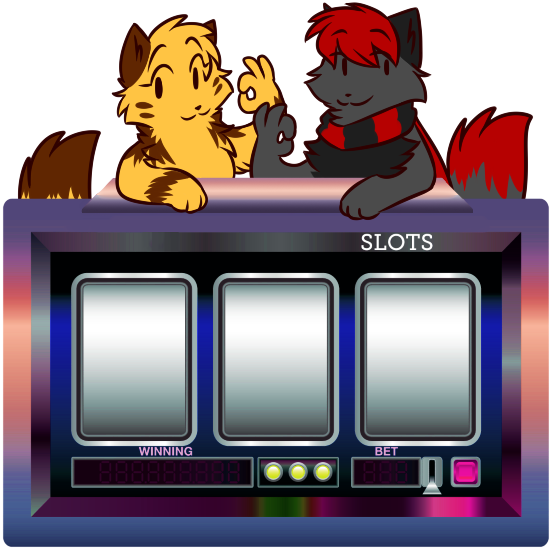
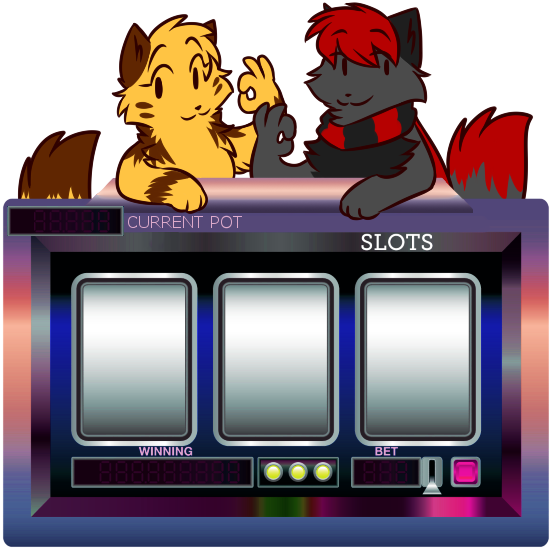
added pot to $slot machine

Changed region(s): [[0.0, 0.3696, 0.3382, 0.4312], [0.3996, 0.3696, 0.4304, 0.4312]]

diff --git a/src/NadekoBot/Modules/Gambling/Commands/Slots.cs b/src/NadekoBot/Modules/Gambling/Commands/Slots.cs
@@ -23,6 +23,9 @@ namespace NadekoBot.Modules.Gambling
 
             private const string backgroundPath = "data/slots/background.png";
 
+            public static string potFile = "data/SlotsCurrentPot.txt";
+            public static int currentPot = 0;
+
             private static readonly byte[] backgroundBuffer;
             private static readonly byte[][] numbersBuffer = new byte[10][];
             private static readonly byte[][] emojiBuffer;
@@ -47,6 +50,14 @@ namespace NadekoBot.Modules.Gambling
                 for (int i = 0; i < emojiFiles.Length; i++)
                 {
                     emojiBuffer[i] = File.ReadAllBytes(emojiFiles[i]);
+                }
+
+                if (!System.IO.File.Exists(potFile))
+                {
+                    System.IO.File.WriteAllText(potFile, currentPot.ToString());
+                } else
+                {
+                    currentPot = Convert.ToInt32(File.ReadAllText(potFile));
                 }
             }
 
@@ -74,7 +85,7 @@ namespace NadekoBot.Modules.Gambling
                 static readonly List<Func<int[], int>> winningCombos = new List<Func<int[], int>>()
                 {
                     //three flowers
-                    (arr) => arr.All(a=>a==MaxValue) ? 30 : 0,
+                    (arr) => arr.All(a=>a==MaxValue) ? 9 : 0,
                     //three of the same
                     (arr) => !arr.Any(a => a != arr[0]) ? 10 : 0,
                     //two flowers
@@ -127,6 +138,7 @@ namespace NadekoBot.Modules.Gambling
                 var embed = new EmbedBuilder()
                     .WithOkColor()
                     .WithTitle("Slot Stats")
+                    .AddField(efb => efb.WithName("Current Pot").WithValue(currentPot.ToString()).WithIsInline(true))
                     .AddField(efb => efb.WithName("Total Bet").WithValue(bet.ToString()).WithIsInline(true))
                     .AddField(efb => efb.WithName("Paid Out").WithValue(paid.ToString()).WithIsInline(true))
                     .WithFooter(efb => efb.WithText($"Payout Rate: {paid * 1.0 / bet * 100:f4}%"));
@@ -188,6 +200,11 @@ namespace NadekoBot.Modules.Gambling
                         await Context.Channel.SendErrorAsync($"You don't have enough {NadekoBot.BotConfig.CurrencySign}.").ConfigureAwait(false);
                         return;
                     }
+                    else
+                    {
+                        currentPot += amount;
+                        File.WriteAllText(potFile, currentPot.ToString());
+                    }
                     Interlocked.Add(ref totalBet, amount);
                     using (var bgFileStream = new MemoryStream(backgroundBuffer))
                     {
@@ -221,6 +238,10 @@ namespace NadekoBot.Modules.Gambling
                             }
 
                             var won = amount * result.Multiplier;
+                            if (result.Multiplier == 9)
+                            {
+                                won += currentPot;
+                            }
                             var printWon = won;
                             var n = 0;
                             do
@@ -237,7 +258,7 @@ namespace NadekoBot.Modules.Gambling
                                             {
                                                 if (pixels[i, j].A < alphaCutOut)
                                                     continue;
-                                                var x = 230 - n * 16 + i;
+                                                var x = 228 - n * 16 + i;
                                                 bgPixels[x, 462 + j] = pixels[i, j];
                                             }
                                         }
@@ -270,6 +291,35 @@ namespace NadekoBot.Modules.Gambling
                                 }
                                 n++;
                             } while ((printAmount /= 10) != 0);
+
+                            var printPot = currentPot;
+                            if (result.Multiplier == 9)
+                            {
+                                printPot = 0;
+                            }
+                            n = 0;
+                            do
+                            {
+                                var digit = printPot % 10;
+                                using (var fs = new MemoryStream(numbersBuffer[digit]))
+                                {
+                                    var img = new ImageSharp.Image(fs);
+                                    using (var pixels = img.Lock())
+                                    {
+                                        for (int i = 0; i < pixels.Width; i++)
+                                        {
+                                            for (int j = 0; j < pixels.Height; j++)
+                                            {
+                                                if (pixels[i, j].A < alphaCutOut)
+                                                    continue;
+                                                var x = 98 - n * 16 + i;
+                                                bgPixels[x, 211 + j] = pixels[i, j];
+                                            }
+                                        }
+                                    }
+                                }
+                                n++;
+                            } while ((printPot /= 10) != 0);
                         }
 
                         var msg = "Better luck next time ^_^";
@@ -283,8 +333,13 @@ namespace NadekoBot.Modules.Gambling
                                 msg = $"Good job! Two {NadekoBot.BotConfig.CurrencySign} - bet x4";
                             else if (result.Multiplier == 10)
                                 msg = "Wow! Lucky! Three of a kind! x10";
-                            else if (result.Multiplier == 30)
-                                msg = "WOAAHHHHHH!!! Congratulations!!! x30";
+                            else if (result.Multiplier == 9)
+                            {
+                                msg = "WOAAHHHHHH!!! Congratulations!!! x10 + the whole pot!";
+                                await CurrencyHandler.AddCurrencyAsync(Context.User, $"Slot Machine won current pot!", currentPot, false);
+                                currentPot = 0;
+                                File.WriteAllText(potFile, currentPot.ToString());
+                            }
                         }
 
                         await Context.Channel.SendFileAsync(bgImage.ToStream(), "result.png", Context.User.Mention + " " + msg /*+ $"\n`Bet:`{amount} `Won:` {amount * result.Multiplier}{NadekoBot.BotConfig.CurrencySign}"*/).ConfigureAwait(false);

diff --git a/src/NadekoBot/Modules/Gambling/Gambling.cs b/src/NadekoBot/Modules/Gambling/Gambling.cs
@@ -21,7 +21,7 @@ namespace NadekoBot.Modules.Gambling
         public static string CurrencyPluralName { get; set; }
         public static string CurrencySign { get; set; }
 
-        public static string coloredNamesFile = System.IO.Path.Combine(System.IO.Directory.GetCurrentDirectory(), "ColoredNames.txt");
+        public static string coloredNamesFile = "data/ColoredNames.txt";
 
         static Gambling()
         {
@@ -29,6 +29,11 @@ namespace NadekoBot.Modules.Gambling
             CurrencyPluralName = NadekoBot.BotConfig.CurrencyPluralName;
             CurrencySign = NadekoBot.BotConfig.CurrencySign;
 
+
+            if (!System.IO.File.Exists(coloredNamesFile))
+            {
+                System.IO.File.WriteAllText(coloredNamesFile, "");
+            }
             var nameColorTimer = new Timer(async (e) =>
             {
                 await CheckForExpiredColors();
@@ -319,53 +324,53 @@ namespace NadekoBot.Modules.Gambling
             await Context.Channel.SendConfirmAsync(str).ConfigureAwait(false);
         }
 
-        [NadekoCommand, Usage, Description, Aliases]
-        [RequireContext(ContextType.Guild)]
-        [OwnerOnly]
-        public async Task TestDate()
-        {
-            if (!System.IO.File.Exists(coloredNamesFile))
-            {
-                System.IO.File.WriteAllText(coloredNamesFile, "");
-            }
-            IEnumerable<System.String> lines = System.IO.File.ReadLines(coloredNamesFile);
+        //[NadekoCommand, Usage, Description, Aliases]
+        //[RequireContext(ContextType.Guild)]
+        //[OwnerOnly]
+        //public async Task TestDate()
+        //{
+        //    if (!System.IO.File.Exists(coloredNamesFile))
+        //    {
+        //        System.IO.File.WriteAllText(coloredNamesFile, "");
+        //    }
+        //    IEnumerable<System.String> lines = System.IO.File.ReadLines(coloredNamesFile);
 
-            string message = "";
-            int i = 0;
-            bool userExists = false;
-            foreach (string line in lines)
-            {
-                System.String[] substrings = line.Split(',');
-                string userId = substrings[0];
-                System.DateTime expireDate = System.Convert.ToDateTime(substrings[1]);
+        //    string message = "";
+        //    int i = 0;
+        //    bool userExists = false;
+        //    foreach (string line in lines)
+        //    {
+        //        System.String[] substrings = line.Split(',');
+        //        string userId = substrings[0];
+        //        System.DateTime expireDate = System.Convert.ToDateTime(substrings[1]);
 
-                if (i > 0)
-                {
-                    message += "\n";
-                }
-                message += "User ID " + userId + "'s color will expire on: " + expireDate;
+        //        if (i > 0)
+        //        {
+        //            message += "\n";
+        //        }
+        //        message += "User ID " + userId + "'s color will expire on: " + expireDate;
 
-                //IGuildUser user = await Context.Guild.GetUserAsync(System.Convert.ToUInt64(userId));
-                //message += "User " + user.Mention + "'s color will expire on: " + expireDate;
+        //        //IGuildUser user = await Context.Guild.GetUserAsync(System.Convert.ToUInt64(userId));
+        //        //message += "User " + user.Mention + "'s color will expire on: " + expireDate;
 
-                i++;
-                if (Context.User.Id.ToString() == userId) { userExists = true; }
-            }
+        //        i++;
+        //        if (Context.User.Id.ToString() == userId) { userExists = true; }
+        //    }
 
-            if (!userExists)
-            {
-                if (i > 0)
-                {
-                    System.IO.File.AppendAllText(coloredNamesFile, System.Environment.NewLine);
-                    message += "\n";
-                }
-                System.IO.File.AppendAllText(coloredNamesFile, Context.User.Id.ToString() + "," + System.DateTime.Now.AddMonths(1).ToString());
-                message += "User ID " + Context.User.Id.ToString() + "'s color will expire on: " + System.DateTime.Now.AddMonths(1).ToString();
-            }
-            i = 0;
+        //    if (!userExists)
+        //    {
+        //        if (i > 0)
+        //        {
+        //            System.IO.File.AppendAllText(coloredNamesFile, System.Environment.NewLine);
+        //            message += "\n";
+        //        }
+        //        System.IO.File.AppendAllText(coloredNamesFile, Context.User.Id.ToString() + "," + System.DateTime.Now.AddMonths(1).ToString());
+        //        message += "User ID " + Context.User.Id.ToString() + "'s color will expire on: " + System.DateTime.Now.AddMonths(1).ToString();
+        //    }
+        //    i = 0;
 
-            await Context.Channel.SendConfirmAsync(message).ConfigureAwait(false);
-        }
+        //    await Context.Channel.SendConfirmAsync(message).ConfigureAwait(false);
+        //}
 
         [NadekoCommand, Usage, Description, Aliases]
         [RequireContext(ContextType.Guild)]
